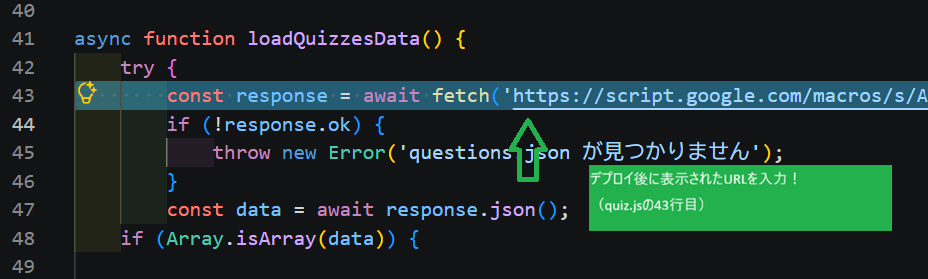
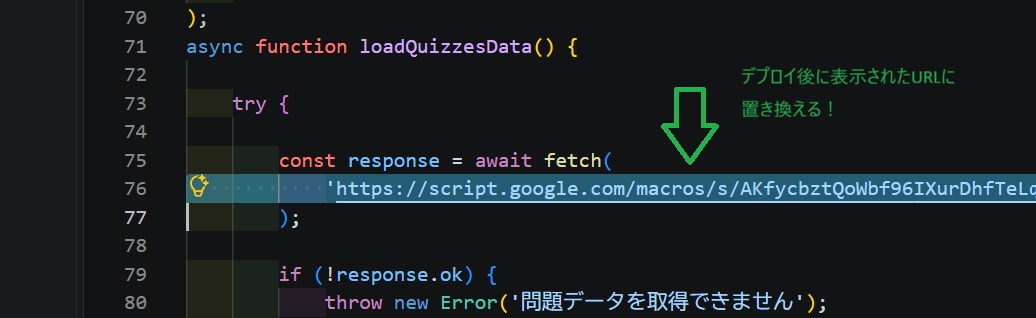
効果音の注意書きを修正し、入力方法をひらがなに統一

diff --git a/index.html b/index.html
@@ -27,10 +27,10 @@
                     <h2>🌳 クイズの準備</h2>
 
                     <div class="game-rule">
-                        <p>🔊 効果音があります。音量に注意してね。</p>
+                        <p>🔊 効果音があります。音量に気を付けてね。</p>
                         <p>📝 こたえはひらがなで入力してね</p>
                         <p>💣 制限時間は90秒です</p>
-                        <p>🎯 5こ見つけると次の問題へ！</p>
+                        <p>🎯 5こせいかいすると次の問題へ！</p>
                     </div>
 
                     <p>あなたの名前（班名でもOK）</p>

diff --git a/quiz.html b/quiz.html
@@ -72,7 +72,7 @@
 
         <div class="input-area">
             <div id="current-turn-label">ちょっと待ってね...</div>
-            <input type="text" id="answer-input" placeholder="こたえを入力してEnter！">
+            <input type="text" id="answer-input" placeholder="こたえをひらがなで入力してEnter！">
             <div id="feedback" class="feedback"></div>
         </div>
         <p id="answer-note">答えはひらがなで入力してね！</p>
